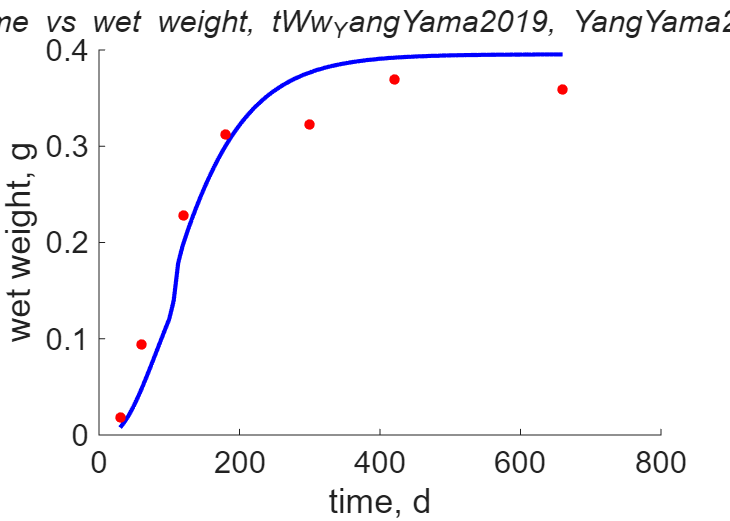
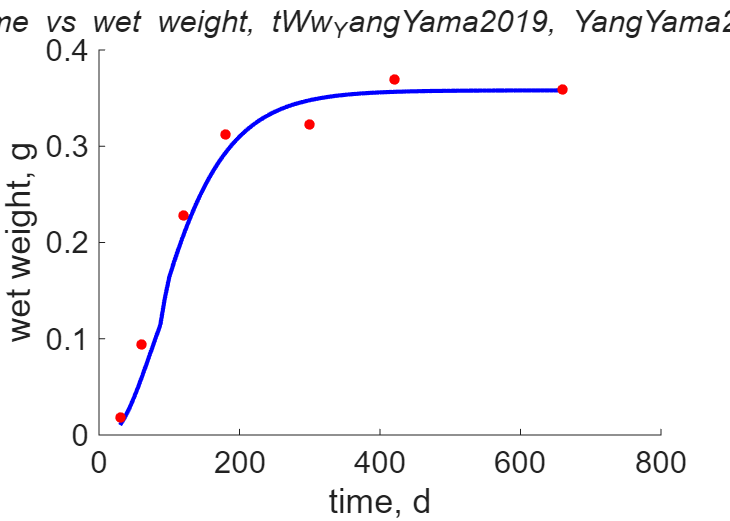
Small improvement to high data level estimation

Changed region(s): [[0.3014, 0.0921, 0.7836, 0.3071], [0.1507, 0.3992, 0.2712, 0.8292], [0.2712, 0.3071, 0.3014, 0.3992]]

diff --git a/data-full version less data only ODE/Danio_rerio_res.html b/data-full version less data only ODE/Danio_rerio_res.html
@@ -44,7 +44,7 @@
   </div>
 
   <div class="par">
-  <h4>COMPLETE = 4.6; MRE =    0.145; SMAE =    0.173; SMSE =    0.038 </h4>
+  <h4>COMPLETE = 4.6; MRE =    0.135; SMAE =    0.164; SMSE =    0.035 </h4>
   </div>
 
   <p class="clear"></p>
@@ -53,47 +53,47 @@
   <h2>Data & predictions</h2>
   <TABLE id="prd">
     <TR  class="head"><TH>data</TH> <TH>prd</TH> <TH>RE</TH>  <TH>symbol</TH> <TH>units</TH> <TH>description</TH> </TR>
-    <TR><TD>  5</TD> <TD>3.515</TD> <TD>0.297</TD> <TD>ab</TD> <TD>d</TD> <TD>age at birth</TD></TR>
-    <TR><TD> 22</TD> <TD>18.75</TD> <TD>0.1478</TD> <TD>aj</TD> <TD>d</TD> <TD>age at metam</TD></TR>
-    <TR><TD> 75</TD> <TD>87.82</TD> <TD>0.1709</TD> <TD>ap</TD> <TD>d</TD> <TD>age at puberty</TD></TR>
-    <TR><TD>1642</TD> <TD>1638</TD> <TD>0.002603</TD> <TD>am</TD> <TD>d</TD> <TD>life span</TD></TR>
-    <TR><TD>0.07</TD> <TD>0.08393</TD> <TD>0.199</TD> <TD>L0</TD> <TD>cm</TD> <TD>egg diameter</TD></TR>
-    <TR><TD>0.4</TD> <TD>0.2719</TD> <TD>0.3203</TD> <TD>Lb</TD> <TD>cm</TD> <TD>total length at birth</TD></TR>
-    <TR><TD>  1</TD> <TD>0.7888</TD> <TD>0.2112</TD> <TD>Lj</TD> <TD>cm</TD> <TD>total length at metam</TD></TR>
-    <TR><TD>3.25</TD> <TD>3.47</TD> <TD>0.06766</TD> <TD>Lp</TD> <TD>cm</TD> <TD>total length at puberty</TD></TR>
-    <TR><TD>  5</TD> <TD>5.796</TD> <TD>0.1593</TD> <TD>Li</TD> <TD>cm</TD> <TD>ultimate total length</TD></TR>
-    <TR><TD>0.0001</TD> <TD>6.192e-05</TD> <TD>0.3808</TD> <TD>Wd0</TD> <TD>g</TD> <TD>egg dry weight</TD></TR>
-    <TR><TD>  1</TD> <TD>1.255</TD> <TD>0.2554</TD> <TD>Wwi</TD> <TD>g</TD> <TD>ultimate wet weight</TD></TR>
-    <TR><TD>240</TD> <TD>199.4</TD> <TD>0.1694</TD> <TD>Ri</TD> <TD>#/d</TD> <TD>max reproduction</TD></TR>
-    <TR><TD>0.15</TD> <TD>0.146</TD> <TD>0.02635</TD> <TD>GSI</TD> <TD>g/g</TD> <TD>Gonado Somatic Index</TD></TR>
-    <TR><TD colspan="2">see figure</TD> <TD>0.08299</TD> <TD>tL_Schi2002</TD> <TD colspan="2">time since fertilization <font color="blue"><i>vs.</i></font> total length</TD>
-    <TR><TD colspan="2">see figure</TD> <TD>0.1214</TD> <TD>tL_EatoFarl1974</TD> <TD colspan="2">time since birth <font color="blue"><i>vs.</i></font> standard length</TD>
-    <TR><TD colspan="2">see figure</TD> <TD>0.1029</TD> <TD>tL_BagaPels2001</TD> <TD colspan="2">time since fertilizatixon <font color="blue"><i>vs.</i></font> total length</TD>
-    <TR><TD colspan="2">see figure</TD> <TD>0.1625</TD> <TD>tWw_BagaPels2001</TD> <TD colspan="2">time since fertilization <font color="blue"><i>vs.</i></font> wet weight</TD>
-    <TR><TD colspan="2">see figure</TD> <TD>0.197</TD> <TD>tWd_BagaPels2001</TD> <TD colspan="2">time since fertilization <font color="blue"><i>vs.</i></font> dry weight</TD>
-    <TR><TD colspan="2">see figure</TD> <TD>0.1492</TD> <TD>tL_BestAdat2010</TD> <TD colspan="2">time since fertilization <font color="blue"><i>vs.</i></font> total length</TD>
-    <TR><TD colspan="2">see figure</TD> <TD>0.06427</TD> <TD>tL_LawrEber2002_high</TD> <TD colspan="2">time since birth <font color="blue"><i>vs.</i></font> total length</TD>
-    <TR><TD colspan="2">see figure</TD> <TD>0.04543</TD> <TD>tL_LawrEber2002_low</TD> <TD colspan="2">time since birth <font color="blue"><i>vs.</i></font> total length</TD>
-    <TR><TD colspan="2">see figure</TD> <TD>0.0466</TD> <TD>tLf1_BeauGous2015</TD> <TD colspan="2">time since fertilization <font color="blue"><i>vs.</i></font> standard length</TD>
-    <TR><TD colspan="2">see figure</TD> <TD>0.05015</TD> <TD>tLf2_BeauGous2015</TD> <TD colspan="2">time since fertilization <font color="blue"><i>vs.</i></font> standard length</TD>
-    <TR><TD colspan="2">see figure</TD> <TD>0.06125</TD> <TD>tLf3_BeauGous2015</TD> <TD colspan="2">time since fertilization <font color="blue"><i>vs.</i></font> standard length</TD>
-    <TR><TD colspan="2">see figure</TD> <TD>0.08231</TD> <TD>tL1</TD> <TD colspan="2">time <font color="blue"><i>vs.</i></font> standard length <font color="blue"></TD>
-    <TR><TD>0.8632</TD> <TD>1.081</TD> <TD>0.2519</TD> <TD>Wwt</TD> <TD>g</TD> <TD>final wet weight</TD></TR>
-    <TR><TD colspan="2">see figure</TD> <TD>0.2842</TD> <TD>tN</TD> <TD colspan="2">time <font color="blue"><i>vs.</i></font> cumulated number of eggs</TD>
-    <TR><TD colspan="2">see figure</TD> <TD>0.1209</TD> <TD>tWw_ValKwa2022</TD> <TD colspan="2">time <font color="blue"><i>vs.</i></font> wet weight</TD>
-    <TR><TD colspan="2">see figure</TD> <TD>0.139</TD> <TD>tL_ValKwa2022</TD> <TD colspan="2">time <font color="blue"><i>vs.</i></font> total length</TD>
-    <TR><TD colspan="2">see figure</TD> <TD>0.1162</TD> <TD>tJX_ValKwa2022</TD> <TD colspan="2">time <font color="blue"><i>vs.</i></font> feed intake</TD>
-    <TR><TD colspan="2">see figure</TD> <TD>0.0529</TD> <TD>tL_YangYama2019</TD> <TD colspan="2">time <font color="blue"><i>vs.</i></font> total length</TD>
-    <TR><TD colspan="2">see figure</TD> <TD>0.0772</TD> <TD>tWw_YangYama2019</TD> <TD colspan="2">time <font color="blue"><i>vs.</i></font> wet weight</TD>
-    <TR><TD colspan="2">see figure</TD> <TD>0.1541</TD> <TD>tJO_YangYama2019</TD> <TD colspan="2">time <font color="blue"><i>vs.</i></font> oxygen consumption</TD>
-    <TR class="psd"><TD>0.02</TD> <TD>0.03347</TD> <TD>0.6734</TD> <TD>psd.v</TD> <TD>cm/d</TD> <TD>energy conductance</TD></TR>
-    <TR class="psd"><TD> 18</TD> <TD>137.7</TD> <TD>6.647</TD> <TD>psd.p_M</TD> <TD>J/d.cm^3</TD> <TD>vol-spec som maint</TD></TR>
-    <TR class="psd"><TD>0.002</TD> <TD>0.002</TD> <TD>  0</TD> <TD>psd.k_J</TD> <TD>1/d</TD> <TD>maturity maint rate coefficient</TD></TR>
-    <TR class="psd"><TD>0.3</TD> <TD>0.07738</TD> <TD>0.7421</TD> <TD>psd.k</TD> <TD>-</TD> <TD>maintenance ratio</TD></TR>
-    <TR class="psd"><TD>0.8</TD> <TD>0.3518</TD> <TD>0.5602</TD> <TD>psd.kap</TD> <TD>-</TD> <TD>allocation fraction to soma</TD></TR>
-    <TR class="psd"><TD>0.8</TD> <TD>0.7857</TD> <TD>0.01791</TD> <TD>psd.kap_G</TD> <TD>-</TD> <TD>growth efficiency</TD></TR>
+    <TR><TD>  5</TD> <TD>3.608</TD> <TD>0.2784</TD> <TD>ab</TD> <TD>d</TD> <TD>age at birth</TD></TR>
+    <TR><TD> 22</TD> <TD>19.43</TD> <TD>0.1167</TD> <TD>aj</TD> <TD>d</TD> <TD>age at metam</TD></TR>
+    <TR><TD> 75</TD> <TD>73.84</TD> <TD>0.01553</TD> <TD>ap</TD> <TD>d</TD> <TD>age at puberty</TD></TR>
+    <TR><TD>1642</TD> <TD>1641</TD> <TD>0.001068</TD> <TD>am</TD> <TD>d</TD> <TD>life span</TD></TR>
+    <TR><TD>0.07</TD> <TD>0.08513</TD> <TD>0.2161</TD> <TD>L0</TD> <TD>cm</TD> <TD>egg diameter</TD></TR>
+    <TR><TD>0.4</TD> <TD>0.2705</TD> <TD>0.3238</TD> <TD>Lb</TD> <TD>cm</TD> <TD>total length at birth</TD></TR>
+    <TR><TD>  1</TD> <TD>0.7972</TD> <TD>0.2028</TD> <TD>Lj</TD> <TD>cm</TD> <TD>total length at metam</TD></TR>
+    <TR><TD>3.25</TD> <TD>3.03</TD> <TD>0.06781</TD> <TD>Lp</TD> <TD>cm</TD> <TD>total length at puberty</TD></TR>
+    <TR><TD>  5</TD> <TD>5.69</TD> <TD>0.138</TD> <TD>Li</TD> <TD>cm</TD> <TD>ultimate total length</TD></TR>
+    <TR><TD>0.0001</TD> <TD>6.46e-05</TD> <TD>0.354</TD> <TD>Wd0</TD> <TD>g</TD> <TD>egg dry weight</TD></TR>
+    <TR><TD>  1</TD> <TD>1.254</TD> <TD>0.2541</TD> <TD>Wwi</TD> <TD>g</TD> <TD>ultimate wet weight</TD></TR>
+    <TR><TD>240</TD> <TD>201.9</TD> <TD>0.1586</TD> <TD>Ri</TD> <TD>#/d</TD> <TD>max reproduction</TD></TR>
+    <TR><TD>0.15</TD> <TD>0.151</TD> <TD>0.006699</TD> <TD>GSI</TD> <TD>g/g</TD> <TD>Gonado Somatic Index</TD></TR>
+    <TR><TD colspan="2">see figure</TD> <TD>0.08692</TD> <TD>tL_Schi2002</TD> <TD colspan="2">time since fertilization <font color="blue"><i>vs.</i></font> total length</TD>
+    <TR><TD colspan="2">see figure</TD> <TD>0.0839</TD> <TD>tL_EatoFarl1974</TD> <TD colspan="2">time since birth <font color="blue"><i>vs.</i></font> standard length</TD>
+    <TR><TD colspan="2">see figure</TD> <TD>0.101</TD> <TD>tL_BagaPels2001</TD> <TD colspan="2">time since fertilizatixon <font color="blue"><i>vs.</i></font> total length</TD>
+    <TR><TD colspan="2">see figure</TD> <TD>0.1578</TD> <TD>tWw_BagaPels2001</TD> <TD colspan="2">time since fertilization <font color="blue"><i>vs.</i></font> wet weight</TD>
+    <TR><TD colspan="2">see figure</TD> <TD>0.2065</TD> <TD>tWd_BagaPels2001</TD> <TD colspan="2">time since fertilization <font color="blue"><i>vs.</i></font> dry weight</TD>
+    <TR><TD colspan="2">see figure</TD> <TD>0.165</TD> <TD>tL_BestAdat2010</TD> <TD colspan="2">time since fertilization <font color="blue"><i>vs.</i></font> total length</TD>
+    <TR><TD colspan="2">see figure</TD> <TD>0.06289</TD> <TD>tL_LawrEber2002_high</TD> <TD colspan="2">time since birth <font color="blue"><i>vs.</i></font> total length</TD>
+    <TR><TD colspan="2">see figure</TD> <TD>0.04596</TD> <TD>tL_LawrEber2002_low</TD> <TD colspan="2">time since birth <font color="blue"><i>vs.</i></font> total length</TD>
+    <TR><TD colspan="2">see figure</TD> <TD>0.05048</TD> <TD>tLf1_BeauGous2015</TD> <TD colspan="2">time since fertilization <font color="blue"><i>vs.</i></font> standard length</TD>
+    <TR><TD colspan="2">see figure</TD> <TD>0.05544</TD> <TD>tLf2_BeauGous2015</TD> <TD colspan="2">time since fertilization <font color="blue"><i>vs.</i></font> standard length</TD>
+    <TR><TD colspan="2">see figure</TD> <TD>0.05982</TD> <TD>tLf3_BeauGous2015</TD> <TD colspan="2">time since fertilization <font color="blue"><i>vs.</i></font> standard length</TD>
+    <TR><TD colspan="2">see figure</TD> <TD>0.1147</TD> <TD>tL1</TD> <TD colspan="2">time <font color="blue"><i>vs.</i></font> standard length <font color="blue"></TD>
+    <TR><TD>0.8632</TD> <TD>1.059</TD> <TD>0.2264</TD> <TD>Wwt</TD> <TD>g</TD> <TD>final wet weight</TD></TR>
+    <TR><TD colspan="2">see figure</TD> <TD>0.3136</TD> <TD>tN</TD> <TD colspan="2">time <font color="blue"><i>vs.</i></font> cumulated number of eggs</TD>
+    <TR><TD colspan="2">see figure</TD> <TD>0.1145</TD> <TD>tWw_ValKwa2022</TD> <TD colspan="2">time <font color="blue"><i>vs.</i></font> wet weight</TD>
+    <TR><TD colspan="2">see figure</TD> <TD>0.1221</TD> <TD>tL_ValKwa2022</TD> <TD colspan="2">time <font color="blue"><i>vs.</i></font> total length</TD>
+    <TR><TD colspan="2">see figure</TD> <TD>0.09052</TD> <TD>tJX_ValKwa2022</TD> <TD colspan="2">time <font color="blue"><i>vs.</i></font> feed intake</TD>
+    <TR><TD colspan="2">see figure</TD> <TD>0.03743</TD> <TD>tL_YangYama2019</TD> <TD colspan="2">time <font color="blue"><i>vs.</i></font> total length</TD>
+    <TR><TD colspan="2">see figure</TD> <TD>0.07116</TD> <TD>tWw_YangYama2019</TD> <TD colspan="2">time <font color="blue"><i>vs.</i></font> wet weight</TD>
+    <TR><TD colspan="2">see figure</TD> <TD>0.1511</TD> <TD>tJO_YangYama2019</TD> <TD colspan="2">time <font color="blue"><i>vs.</i></font> oxygen consumption</TD>
+    <TR class="psd"><TD>0.02</TD> <TD>0.03255</TD> <TD>0.6274</TD> <TD>psd.v</TD> <TD>cm/d</TD> <TD>energy conductance</TD></TR>
+    <TR class="psd"><TD> 18</TD> <TD>140.3</TD> <TD>6.795</TD> <TD>psd.p_M</TD> <TD>J/d.cm^3</TD> <TD>vol-spec som maint</TD></TR>
+    <TR class="psd"><TD>0.002</TD> <TD>0.003041</TD> <TD>0.5205</TD> <TD>psd.k_J</TD> <TD>1/d</TD> <TD>maturity maint rate coefficient</TD></TR>
+    <TR class="psd"><TD>0.3</TD> <TD>0.1131</TD> <TD>0.623</TD> <TD>psd.k</TD> <TD>-</TD> <TD>maintenance ratio</TD></TR>
+    <TR class="psd"><TD>0.8</TD> <TD>0.3378</TD> <TD>0.5778</TD> <TD>psd.kap</TD> <TD>-</TD> <TD>allocation fraction to soma</TD></TR>
+    <TR class="psd"><TD>0.8</TD> <TD>0.8018</TD> <TD>0.002268</TD> <TD>psd.kap_G</TD> <TD>-</TD> <TD>growth efficiency</TD></TR>
     <TR class="psd"><TD>0.95</TD> <TD>0.95</TD> <TD>  0</TD> <TD>psd.kap_R</TD> <TD>-</TD> <TD>reproduction efficiency</TD></TR>
-    <TR class="psd"><TD>0.01</TD> <TD>0.002391</TD> <TD>0.7609</TD> <TD>psd.s_s</TD> <TD>-</TD> <TD>supply stress</TD></TR>
+    <TR class="psd"><TD>0.01</TD> <TD>0.002068</TD> <TD>0.7932</TD> <TD>psd.s_s</TD> <TD>-</TD> <TD>supply stress</TD></TR>
   </TABLE>
   </div>
 
@@ -103,35 +103,35 @@
     <TR class="head"><TH>symbol</TH> <TH>units</TH> <TH>value</TH>  <TH>free</TH> <TH>description</TH> </TR>
     <TR><TD>T_ref</TD> <TD>K</TD> <TD>293.1</TD> <TD>0</TD> <TD>Reference temperature</TD></TR>
     <TR><TD>T_A</TD> <TD>K</TD> <TD>8000</TD> <TD>0</TD> <TD>Arrhenius temp</TD></TR>
-    <TR><TD>z</TD> <TD>-</TD> <TD>0.3068</TD> <TD>1</TD> <TD>zoom factor</TD></TR>
+    <TR><TD>z</TD> <TD>-</TD> <TD>0.2991</TD> <TD>1</TD> <TD>zoom factor</TD></TR>
     <TR><TD>F_m</TD> <TD>l/d.cm^2</TD> <TD>6.5</TD> <TD>0</TD> <TD>{F_m}, max spec searching rate</TD></TR>
-    <TR><TD>kap_X</TD> <TD>-</TD> <TD>0.7922</TD> <TD>1</TD> <TD>digestion efficiency of food to reserve</TD></TR>
-    <TR><TD>kap_P</TD> <TD>-</TD> <TD>0.1356</TD> <TD>1</TD> <TD>faecation efficiency of food to faeces</TD></TR>
-    <TR><TD>v</TD> <TD>cm/d</TD> <TD>0.03347</TD> <TD>1</TD> <TD>energy conductance</TD></TR>
-    <TR><TD>kap</TD> <TD>-</TD> <TD>0.3518</TD> <TD>1</TD> <TD>allocation fraction to soma</TD></TR>
-    <TR><TD>p_M</TD> <TD>J/d.cm^3</TD> <TD>137.7</TD> <TD>1</TD> <TD>[p_M], vol-spec somatic maint</TD></TR>
+    <TR><TD>kap_X</TD> <TD>-</TD> <TD>0.7563</TD> <TD>1</TD> <TD>digestion efficiency of food to reserve</TD></TR>
+    <TR><TD>kap_P</TD> <TD>-</TD> <TD>0.1534</TD> <TD>1</TD> <TD>faecation efficiency of food to faeces</TD></TR>
+    <TR><TD>v</TD> <TD>cm/d</TD> <TD>0.03255</TD> <TD>1</TD> <TD>energy conductance</TD></TR>
+    <TR><TD>kap</TD> <TD>-</TD> <TD>0.3378</TD> <TD>1</TD> <TD>allocation fraction to soma</TD></TR>
+    <TR><TD>p_M</TD> <TD>J/d.cm^3</TD> <TD>140.3</TD> <TD>1</TD> <TD>[p_M], vol-spec somatic maint</TD></TR>
     <TR><TD>p_T</TD> <TD>J/d.cm^2</TD> <TD>  0</TD> <TD>0</TD> <TD>{p_T}, surf-spec somatic maint</TD></TR>
-    <TR><TD>k_J</TD> <TD>1/d</TD> <TD>0.002</TD> <TD>0</TD> <TD>maturity maint rate coefficient</TD></TR>
-    <TR><TD>E_G</TD> <TD>J/cm^3</TD> <TD>5325</TD> <TD>1</TD> <TD>[E_G], spec cost for structure</TD></TR>
-    <TR><TD>E_Hb</TD> <TD>J</TD> <TD>0.7511</TD> <TD>1</TD> <TD>maturity at birth</TD></TR>
-    <TR><TD>E_Hj</TD> <TD>J</TD> <TD>20.45</TD> <TD>1</TD> <TD>maturity at metam</TD></TR>
-    <TR><TD>E_Hp</TD> <TD>J</TD> <TD>2972</TD> <TD>1</TD> <TD>maturity at puberty</TD></TR>
+    <TR><TD>k_J</TD> <TD>1/d</TD> <TD>0.003041</TD> <TD>1</TD> <TD>maturity maint rate coefficient</TD></TR>
+    <TR><TD>E_G</TD> <TD>J/cm^3</TD> <TD>5218</TD> <TD>1</TD> <TD>[E_G], spec cost for structure</TD></TR>
+    <TR><TD>E_Hb</TD> <TD>J</TD> <TD>0.793</TD> <TD>1</TD> <TD>maturity at birth</TD></TR>
+    <TR><TD>E_Hj</TD> <TD>J</TD> <TD>22.65</TD> <TD>1</TD> <TD>maturity at metam</TD></TR>
+    <TR><TD>E_Hp</TD> <TD>J</TD> <TD>1894</TD> <TD>1</TD> <TD>maturity at puberty</TD></TR>
     <TR><TD>kap_R</TD> <TD>-</TD> <TD>0.95</TD> <TD>0</TD> <TD>reproduction efficiency</TD></TR>
-    <TR><TD>h_a</TD> <TD>1/d^2</TD> <TD>1.722e-09</TD> <TD>1</TD> <TD>Weibull aging acceleration</TD></TR>
+    <TR><TD>h_a</TD> <TD>1/d^2</TD> <TD>1.692e-09</TD> <TD>1</TD> <TD>Weibull aging acceleration</TD></TR>
     <TR><TD>s_G</TD> <TD>-</TD> <TD>0.0001069</TD> <TD>0</TD> <TD>Gompertz stress coefficient</TD></TR>
-    <TR><TD>del_Mt</TD> <TD>-</TD> <TD>0.1536</TD> <TD>1</TD> <TD>shape coefficient for adult</TD></TR>
+    <TR><TD>del_Mt</TD> <TD>-</TD> <TD>0.155</TD> <TD>1</TD> <TD>shape coefficient for adult</TD></TR>
     <TR><TD>V_0</TD> <TD>cm^3</TD> <TD>1e-10</TD> <TD>0</TD> <TD>initial structure of egg</TD></TR>
     <TR><TD>f</TD> <TD>-</TD> <TD>  1</TD> <TD>0</TD> <TD>scaled functional response</TD></TR>
-    <TR><TD>f_BagaPels2001</TD> <TD>-</TD> <TD>0.59</TD> <TD>1</TD> <TD>scaled functional response of BagaPels2001 data</TD></TR>
-    <TR><TD>f_BeauGous2015L</TD> <TD>-</TD> <TD>0.6642</TD> <TD>1</TD> <TD>sc. func. resp., BeauGous2015, length data</TD></TR>
-    <TR><TD>f_BeauGous2015R</TD> <TD>-</TD> <TD>1.39</TD> <TD>1</TD> <TD>sc. func. resp., BeauGous2015, reproduction data</TD></TR>
-    <TR><TD>f_BestAdat2010</TD> <TD>-</TD> <TD>1.037</TD> <TD>1</TD> <TD>scaled functional response of BestAdat2010 data</TD></TR>
-    <TR><TD>f_EatoFarl1974</TD> <TD>-</TD> <TD>0.9634</TD> <TD>1</TD> <TD>scaled functional response of EatoFarl1974b data</TD></TR>
-    <TR><TD>f_LawrEber2002_high</TD> <TD>-</TD> <TD>0.8271</TD> <TD>1</TD> <TD>scaled functional response of LawrEber2002_high data</TD></TR>
-    <TR><TD>f_LawrEber2002_low</TD> <TD>-</TD> <TD>0.558</TD> <TD>1</TD> <TD>scaled functional response of LawrEber2002_low data</TD></TR>
-    <TR><TD>f_Schi2002</TD> <TD>-</TD> <TD>0.5412</TD> <TD>1</TD> <TD>scaled functional response of Schi2002 data</TD></TR>
-    <TR><TD>f_ValKwa2022</TD> <TD>-</TD> <TD>0.8158</TD> <TD>1</TD> <TD>scaled functional response of ValKwa2022 data</TD></TR>
-    <TR><TD>f_YangYama2019</TD> <TD>-</TD> <TD>0.6736</TD> <TD>1</TD> <TD>scaled functional response of YangYama2019 data</TD></TR>
+    <TR><TD>f_BagaPels2001</TD> <TD>-</TD> <TD>0.5928</TD> <TD>1</TD> <TD>scaled functional response of BagaPels2001 data</TD></TR>
+    <TR><TD>f_BeauGous2015L</TD> <TD>-</TD> <TD>0.6522</TD> <TD>1</TD> <TD>sc. func. resp., BeauGous2015, length data</TD></TR>
+    <TR><TD>f_BeauGous2015R</TD> <TD>-</TD> <TD>1.384</TD> <TD>1</TD> <TD>sc. func. resp., BeauGous2015, reproduction data</TD></TR>
+    <TR><TD>f_BestAdat2010</TD> <TD>-</TD> <TD>1.055</TD> <TD>1</TD> <TD>scaled functional response of BestAdat2010 data</TD></TR>
+    <TR><TD>f_EatoFarl1974</TD> <TD>-</TD> <TD>0.9478</TD> <TD>1</TD> <TD>scaled functional response of EatoFarl1974b data</TD></TR>
+    <TR><TD>f_LawrEber2002_high</TD> <TD>-</TD> <TD>0.875</TD> <TD>1</TD> <TD>scaled functional response of LawrEber2002_high data</TD></TR>
+    <TR><TD>f_LawrEber2002_low</TD> <TD>-</TD> <TD>0.5604</TD> <TD>1</TD> <TD>scaled functional response of LawrEber2002_low data</TD></TR>
+    <TR><TD>f_Schi2002</TD> <TD>-</TD> <TD>0.54</TD> <TD>1</TD> <TD>scaled functional response of Schi2002 data</TD></TR>
+    <TR><TD>f_ValKwa2022</TD> <TD>-</TD> <TD>0.8139</TD> <TD>1</TD> <TD>scaled functional response of ValKwa2022 data</TD></TR>
+    <TR><TD>f_YangYama2019</TD> <TD>-</TD> <TD>0.676</TD> <TD>1</TD> <TD>scaled functional response of YangYama2019 data</TD></TR>
   </TABLE>
   </div>
 

diff --git a/data-full version less data only ODE/Danio_rerio_res_great.html b/data-full version less data only ODE/Danio_rerio_res_great.html
@@ -44,7 +44,7 @@
   </div>
 
   <div class="par">
-  <h4>COMPLETE = 4.6; MRE =    0.145; SMAE =    0.173; SMSE =    0.038 </h4>
+  <h4>COMPLETE = 4.6; MRE =    0.135; SMAE =    0.164; SMSE =    0.035 </h4>
   </div>
 
   <p class="clear"></p>
@@ -53,47 +53,47 @@
   <h2>Data & predictions</h2>
   <TABLE id="prd">
     <TR  class="head"><TH>data</TH> <TH>prd</TH> <TH>RE</TH>  <TH>symbol</TH> <TH>units</TH> <TH>description</TH> </TR>
-    <TR><TD>  5</TD> <TD>3.515</TD> <TD>0.297</TD> <TD>ab</TD> <TD>d</TD> <TD>age at birth</TD></TR>
-    <TR><TD> 22</TD> <TD>18.75</TD> <TD>0.1478</TD> <TD>aj</TD> <TD>d</TD> <TD>age at metam</TD></TR>
-    <TR><TD> 75</TD> <TD>87.82</TD> <TD>0.1709</TD> <TD>ap</TD> <TD>d</TD> <TD>age at puberty</TD></TR>
-    <TR><TD>1642</TD> <TD>1638</TD> <TD>0.002603</TD> <TD>am</TD> <TD>d</TD> <TD>life span</TD></TR>
-    <TR><TD>0.07</TD> <TD>0.08393</TD> <TD>0.199</TD> <TD>L0</TD> <TD>cm</TD> <TD>egg diameter</TD></TR>
-    <TR><TD>0.4</TD> <TD>0.2719</TD> <TD>0.3203</TD> <TD>Lb</TD> <TD>cm</TD> <TD>total length at birth</TD></TR>
-    <TR><TD>  1</TD> <TD>0.7888</TD> <TD>0.2112</TD> <TD>Lj</TD> <TD>cm</TD> <TD>total length at metam</TD></TR>
-    <TR><TD>3.25</TD> <TD>3.47</TD> <TD>0.06766</TD> <TD>Lp</TD> <TD>cm</TD> <TD>total length at puberty</TD></TR>
-    <TR><TD>  5</TD> <TD>5.796</TD> <TD>0.1593</TD> <TD>Li</TD> <TD>cm</TD> <TD>ultimate total length</TD></TR>
-    <TR><TD>0.0001</TD> <TD>6.192e-05</TD> <TD>0.3808</TD> <TD>Wd0</TD> <TD>g</TD> <TD>egg dry weight</TD></TR>
-    <TR><TD>  1</TD> <TD>1.255</TD> <TD>0.2554</TD> <TD>Wwi</TD> <TD>g</TD> <TD>ultimate wet weight</TD></TR>
-    <TR><TD>240</TD> <TD>199.4</TD> <TD>0.1694</TD> <TD>Ri</TD> <TD>#/d</TD> <TD>max reproduction</TD></TR>
-    <TR><TD>0.15</TD> <TD>0.146</TD> <TD>0.02635</TD> <TD>GSI</TD> <TD>g/g</TD> <TD>Gonado Somatic Index</TD></TR>
-    <TR><TD colspan="2">see figure</TD> <TD>0.08299</TD> <TD>tL_Schi2002</TD> <TD colspan="2">time since fertilization <font color="blue"><i>vs.</i></font> total length</TD>
-    <TR><TD colspan="2">see figure</TD> <TD>0.1214</TD> <TD>tL_EatoFarl1974</TD> <TD colspan="2">time since birth <font color="blue"><i>vs.</i></font> standard length</TD>
-    <TR><TD colspan="2">see figure</TD> <TD>0.1029</TD> <TD>tL_BagaPels2001</TD> <TD colspan="2">time since fertilizatixon <font color="blue"><i>vs.</i></font> total length</TD>
-    <TR><TD colspan="2">see figure</TD> <TD>0.1625</TD> <TD>tWw_BagaPels2001</TD> <TD colspan="2">time since fertilization <font color="blue"><i>vs.</i></font> wet weight</TD>
-    <TR><TD colspan="2">see figure</TD> <TD>0.197</TD> <TD>tWd_BagaPels2001</TD> <TD colspan="2">time since fertilization <font color="blue"><i>vs.</i></font> dry weight</TD>
-    <TR><TD colspan="2">see figure</TD> <TD>0.1492</TD> <TD>tL_BestAdat2010</TD> <TD colspan="2">time since fertilization <font color="blue"><i>vs.</i></font> total length</TD>
-    <TR><TD colspan="2">see figure</TD> <TD>0.06427</TD> <TD>tL_LawrEber2002_high</TD> <TD colspan="2">time since birth <font color="blue"><i>vs.</i></font> total length</TD>
-    <TR><TD colspan="2">see figure</TD> <TD>0.04543</TD> <TD>tL_LawrEber2002_low</TD> <TD colspan="2">time since birth <font color="blue"><i>vs.</i></font> total length</TD>
-    <TR><TD colspan="2">see figure</TD> <TD>0.0466</TD> <TD>tLf1_BeauGous2015</TD> <TD colspan="2">time since fertilization <font color="blue"><i>vs.</i></font> standard length</TD>
-    <TR><TD colspan="2">see figure</TD> <TD>0.05015</TD> <TD>tLf2_BeauGous2015</TD> <TD colspan="2">time since fertilization <font color="blue"><i>vs.</i></font> standard length</TD>
-    <TR><TD colspan="2">see figure</TD> <TD>0.06125</TD> <TD>tLf3_BeauGous2015</TD> <TD colspan="2">time since fertilization <font color="blue"><i>vs.</i></font> standard length</TD>
-    <TR><TD colspan="2">see figure</TD> <TD>0.08231</TD> <TD>tL1</TD> <TD colspan="2">time <font color="blue"><i>vs.</i></font> standard length <font color="blue"></TD>
-    <TR><TD>0.8632</TD> <TD>1.081</TD> <TD>0.2519</TD> <TD>Wwt</TD> <TD>g</TD> <TD>final wet weight</TD></TR>
-    <TR><TD colspan="2">see figure</TD> <TD>0.2842</TD> <TD>tN</TD> <TD colspan="2">time <font color="blue"><i>vs.</i></font> cumulated number of eggs</TD>
-    <TR><TD colspan="2">see figure</TD> <TD>0.1209</TD> <TD>tWw_ValKwa2022</TD> <TD colspan="2">time <font color="blue"><i>vs.</i></font> wet weight</TD>
-    <TR><TD colspan="2">see figure</TD> <TD>0.139</TD> <TD>tL_ValKwa2022</TD> <TD colspan="2">time <font color="blue"><i>vs.</i></font> total length</TD>
-    <TR><TD colspan="2">see figure</TD> <TD>0.1162</TD> <TD>tJX_ValKwa2022</TD> <TD colspan="2">time <font color="blue"><i>vs.</i></font> feed intake</TD>
-    <TR><TD colspan="2">see figure</TD> <TD>0.0529</TD> <TD>tL_YangYama2019</TD> <TD colspan="2">time <font color="blue"><i>vs.</i></font> total length</TD>
-    <TR><TD colspan="2">see figure</TD> <TD>0.0772</TD> <TD>tWw_YangYama2019</TD> <TD colspan="2">time <font color="blue"><i>vs.</i></font> wet weight</TD>
-    <TR><TD colspan="2">see figure</TD> <TD>0.1541</TD> <TD>tJO_YangYama2019</TD> <TD colspan="2">time <font color="blue"><i>vs.</i></font> oxygen consumption</TD>
-    <TR class="psd"><TD>0.02</TD> <TD>0.03347</TD> <TD>0.6734</TD> <TD>psd.v</TD> <TD>cm/d</TD> <TD>energy conductance</TD></TR>
-    <TR class="psd"><TD> 18</TD> <TD>137.7</TD> <TD>6.647</TD> <TD>psd.p_M</TD> <TD>J/d.cm^3</TD> <TD>vol-spec som maint</TD></TR>
-    <TR class="psd"><TD>0.002</TD> <TD>0.002</TD> <TD>  0</TD> <TD>psd.k_J</TD> <TD>1/d</TD> <TD>maturity maint rate coefficient</TD></TR>
-    <TR class="psd"><TD>0.3</TD> <TD>0.07738</TD> <TD>0.7421</TD> <TD>psd.k</TD> <TD>-</TD> <TD>maintenance ratio</TD></TR>
-    <TR class="psd"><TD>0.8</TD> <TD>0.3518</TD> <TD>0.5602</TD> <TD>psd.kap</TD> <TD>-</TD> <TD>allocation fraction to soma</TD></TR>
-    <TR class="psd"><TD>0.8</TD> <TD>0.7857</TD> <TD>0.01791</TD> <TD>psd.kap_G</TD> <TD>-</TD> <TD>growth efficiency</TD></TR>
+    <TR><TD>  5</TD> <TD>3.608</TD> <TD>0.2784</TD> <TD>ab</TD> <TD>d</TD> <TD>age at birth</TD></TR>
+    <TR><TD> 22</TD> <TD>19.43</TD> <TD>0.1167</TD> <TD>aj</TD> <TD>d</TD> <TD>age at metam</TD></TR>
+    <TR><TD> 75</TD> <TD>73.84</TD> <TD>0.01553</TD> <TD>ap</TD> <TD>d</TD> <TD>age at puberty</TD></TR>
+    <TR><TD>1642</TD> <TD>1641</TD> <TD>0.001068</TD> <TD>am</TD> <TD>d</TD> <TD>life span</TD></TR>
+    <TR><TD>0.07</TD> <TD>0.08513</TD> <TD>0.2161</TD> <TD>L0</TD> <TD>cm</TD> <TD>egg diameter</TD></TR>
+    <TR><TD>0.4</TD> <TD>0.2705</TD> <TD>0.3238</TD> <TD>Lb</TD> <TD>cm</TD> <TD>total length at birth</TD></TR>
+    <TR><TD>  1</TD> <TD>0.7972</TD> <TD>0.2028</TD> <TD>Lj</TD> <TD>cm</TD> <TD>total length at metam</TD></TR>
+    <TR><TD>3.25</TD> <TD>3.03</TD> <TD>0.06781</TD> <TD>Lp</TD> <TD>cm</TD> <TD>total length at puberty</TD></TR>
+    <TR><TD>  5</TD> <TD>5.69</TD> <TD>0.138</TD> <TD>Li</TD> <TD>cm</TD> <TD>ultimate total length</TD></TR>
+    <TR><TD>0.0001</TD> <TD>6.46e-05</TD> <TD>0.354</TD> <TD>Wd0</TD> <TD>g</TD> <TD>egg dry weight</TD></TR>
+    <TR><TD>  1</TD> <TD>1.254</TD> <TD>0.2541</TD> <TD>Wwi</TD> <TD>g</TD> <TD>ultimate wet weight</TD></TR>
+    <TR><TD>240</TD> <TD>201.9</TD> <TD>0.1586</TD> <TD>Ri</TD> <TD>#/d</TD> <TD>max reproduction</TD></TR>
+    <TR><TD>0.15</TD> <TD>0.151</TD> <TD>0.006699</TD> <TD>GSI</TD> <TD>g/g</TD> <TD>Gonado Somatic Index</TD></TR>
+    <TR><TD colspan="2">see figure</TD> <TD>0.08692</TD> <TD>tL_Schi2002</TD> <TD colspan="2">time since fertilization <font color="blue"><i>vs.</i></font> total length</TD>
+    <TR><TD colspan="2">see figure</TD> <TD>0.0839</TD> <TD>tL_EatoFarl1974</TD> <TD colspan="2">time since birth <font color="blue"><i>vs.</i></font> standard length</TD>
+    <TR><TD colspan="2">see figure</TD> <TD>0.101</TD> <TD>tL_BagaPels2001</TD> <TD colspan="2">time since fertilizatixon <font color="blue"><i>vs.</i></font> total length</TD>
+    <TR><TD colspan="2">see figure</TD> <TD>0.1578</TD> <TD>tWw_BagaPels2001</TD> <TD colspan="2">time since fertilization <font color="blue"><i>vs.</i></font> wet weight</TD>
+    <TR><TD colspan="2">see figure</TD> <TD>0.2065</TD> <TD>tWd_BagaPels2001</TD> <TD colspan="2">time since fertilization <font color="blue"><i>vs.</i></font> dry weight</TD>
+    <TR><TD colspan="2">see figure</TD> <TD>0.165</TD> <TD>tL_BestAdat2010</TD> <TD colspan="2">time since fertilization <font color="blue"><i>vs.</i></font> total length</TD>
+    <TR><TD colspan="2">see figure</TD> <TD>0.06289</TD> <TD>tL_LawrEber2002_high</TD> <TD colspan="2">time since birth <font color="blue"><i>vs.</i></font> total length</TD>
+    <TR><TD colspan="2">see figure</TD> <TD>0.04596</TD> <TD>tL_LawrEber2002_low</TD> <TD colspan="2">time since birth <font color="blue"><i>vs.</i></font> total length</TD>
+    <TR><TD colspan="2">see figure</TD> <TD>0.05048</TD> <TD>tLf1_BeauGous2015</TD> <TD colspan="2">time since fertilization <font color="blue"><i>vs.</i></font> standard length</TD>
+    <TR><TD colspan="2">see figure</TD> <TD>0.05544</TD> <TD>tLf2_BeauGous2015</TD> <TD colspan="2">time since fertilization <font color="blue"><i>vs.</i></font> standard length</TD>
+    <TR><TD colspan="2">see figure</TD> <TD>0.05982</TD> <TD>tLf3_BeauGous2015</TD> <TD colspan="2">time since fertilization <font color="blue"><i>vs.</i></font> standard length</TD>
+    <TR><TD colspan="2">see figure</TD> <TD>0.1147</TD> <TD>tL1</TD> <TD colspan="2">time <font color="blue"><i>vs.</i></font> standard length <font color="blue"></TD>
+    <TR><TD>0.8632</TD> <TD>1.059</TD> <TD>0.2264</TD> <TD>Wwt</TD> <TD>g</TD> <TD>final wet weight</TD></TR>
+    <TR><TD colspan="2">see figure</TD> <TD>0.3136</TD> <TD>tN</TD> <TD colspan="2">time <font color="blue"><i>vs.</i></font> cumulated number of eggs</TD>
+    <TR><TD colspan="2">see figure</TD> <TD>0.1145</TD> <TD>tWw_ValKwa2022</TD> <TD colspan="2">time <font color="blue"><i>vs.</i></font> wet weight</TD>
+    <TR><TD colspan="2">see figure</TD> <TD>0.1221</TD> <TD>tL_ValKwa2022</TD> <TD colspan="2">time <font color="blue"><i>vs.</i></font> total length</TD>
+    <TR><TD colspan="2">see figure</TD> <TD>0.09052</TD> <TD>tJX_ValKwa2022</TD> <TD colspan="2">time <font color="blue"><i>vs.</i></font> feed intake</TD>
+    <TR><TD colspan="2">see figure</TD> <TD>0.03743</TD> <TD>tL_YangYama2019</TD> <TD colspan="2">time <font color="blue"><i>vs.</i></font> total length</TD>
+    <TR><TD colspan="2">see figure</TD> <TD>0.07116</TD> <TD>tWw_YangYama2019</TD> <TD colspan="2">time <font color="blue"><i>vs.</i></font> wet weight</TD>
+    <TR><TD colspan="2">see figure</TD> <TD>0.1511</TD> <TD>tJO_YangYama2019</TD> <TD colspan="2">time <font color="blue"><i>vs.</i></font> oxygen consumption</TD>
+    <TR class="psd"><TD>0.02</TD> <TD>0.03255</TD> <TD>0.6274</TD> <TD>psd.v</TD> <TD>cm/d</TD> <TD>energy conductance</TD></TR>
+    <TR class="psd"><TD> 18</TD> <TD>140.3</TD> <TD>6.795</TD> <TD>psd.p_M</TD> <TD>J/d.cm^3</TD> <TD>vol-spec som maint</TD></TR>
+    <TR class="psd"><TD>0.002</TD> <TD>0.003041</TD> <TD>0.5205</TD> <TD>psd.k_J</TD> <TD>1/d</TD> <TD>maturity maint rate coefficient</TD></TR>
+    <TR class="psd"><TD>0.3</TD> <TD>0.1131</TD> <TD>0.623</TD> <TD>psd.k</TD> <TD>-</TD> <TD>maintenance ratio</TD></TR>
+    <TR class="psd"><TD>0.8</TD> <TD>0.3378</TD> <TD>0.5778</TD> <TD>psd.kap</TD> <TD>-</TD> <TD>allocation fraction to soma</TD></TR>
+    <TR class="psd"><TD>0.8</TD> <TD>0.8018</TD> <TD>0.002268</TD> <TD>psd.kap_G</TD> <TD>-</TD> <TD>growth efficiency</TD></TR>
     <TR class="psd"><TD>0.95</TD> <TD>0.95</TD> <TD>  0</TD> <TD>psd.kap_R</TD> <TD>-</TD> <TD>reproduction efficiency</TD></TR>
-    <TR class="psd"><TD>0.01</TD> <TD>0.002391</TD> <TD>0.7609</TD> <TD>psd.s_s</TD> <TD>-</TD> <TD>supply stress</TD></TR>
+    <TR class="psd"><TD>0.01</TD> <TD>0.002068</TD> <TD>0.7932</TD> <TD>psd.s_s</TD> <TD>-</TD> <TD>supply stress</TD></TR>
   </TABLE>
   </div>
 
@@ -103,35 +103,35 @@
     <TR class="head"><TH>symbol</TH> <TH>units</TH> <TH>value</TH>  <TH>free</TH> <TH>description</TH> </TR>
     <TR><TD>T_ref</TD> <TD>K</TD> <TD>293.1</TD> <TD>0</TD> <TD>Reference temperature</TD></TR>
     <TR><TD>T_A</TD> <TD>K</TD> <TD>8000</TD> <TD>0</TD> <TD>Arrhenius temp</TD></TR>
-    <TR><TD>z</TD> <TD>-</TD> <TD>0.3068</TD> <TD>1</TD> <TD>zoom factor</TD></TR>
+    <TR><TD>z</TD> <TD>-</TD> <TD>0.2991</TD> <TD>1</TD> <TD>zoom factor</TD></TR>
     <TR><TD>F_m</TD> <TD>l/d.cm^2</TD> <TD>6.5</TD> <TD>0</TD> <TD>{F_m}, max spec searching rate</TD></TR>
-    <TR><TD>kap_X</TD> <TD>-</TD> <TD>0.7922</TD> <TD>1</TD> <TD>digestion efficiency of food to reserve</TD></TR>
-    <TR><TD>kap_P</TD> <TD>-</TD> <TD>0.1356</TD> <TD>1</TD> <TD>faecation efficiency of food to faeces</TD></TR>
-    <TR><TD>v</TD> <TD>cm/d</TD> <TD>0.03347</TD> <TD>1</TD> <TD>energy conductance</TD></TR>
-    <TR><TD>kap</TD> <TD>-</TD> <TD>0.3518</TD> <TD>1</TD> <TD>allocation fraction to soma</TD></TR>
-    <TR><TD>p_M</TD> <TD>J/d.cm^3</TD> <TD>137.7</TD> <TD>1</TD> <TD>[p_M], vol-spec somatic maint</TD></TR>
+    <TR><TD>kap_X</TD> <TD>-</TD> <TD>0.7563</TD> <TD>1</TD> <TD>digestion efficiency of food to reserve</TD></TR>
+    <TR><TD>kap_P</TD> <TD>-</TD> <TD>0.1534</TD> <TD>1</TD> <TD>faecation efficiency of food to faeces</TD></TR>
+    <TR><TD>v</TD> <TD>cm/d</TD> <TD>0.03255</TD> <TD>1</TD> <TD>energy conductance</TD></TR>
+    <TR><TD>kap</TD> <TD>-</TD> <TD>0.3378</TD> <TD>1</TD> <TD>allocation fraction to soma</TD></TR>
+    <TR><TD>p_M</TD> <TD>J/d.cm^3</TD> <TD>140.3</TD> <TD>1</TD> <TD>[p_M], vol-spec somatic maint</TD></TR>
     <TR><TD>p_T</TD> <TD>J/d.cm^2</TD> <TD>  0</TD> <TD>0</TD> <TD>{p_T}, surf-spec somatic maint</TD></TR>
-    <TR><TD>k_J</TD> <TD>1/d</TD> <TD>0.002</TD> <TD>0</TD> <TD>maturity maint rate coefficient</TD></TR>
-    <TR><TD>E_G</TD> <TD>J/cm^3</TD> <TD>5325</TD> <TD>1</TD> <TD>[E_G], spec cost for structure</TD></TR>
-    <TR><TD>E_Hb</TD> <TD>J</TD> <TD>0.7511</TD> <TD>1</TD> <TD>maturity at birth</TD></TR>
-    <TR><TD>E_Hj</TD> <TD>J</TD> <TD>20.45</TD> <TD>1</TD> <TD>maturity at metam</TD></TR>
-    <TR><TD>E_Hp</TD> <TD>J</TD> <TD>2972</TD> <TD>1</TD> <TD>maturity at puberty</TD></TR>
+    <TR><TD>k_J</TD> <TD>1/d</TD> <TD>0.003041</TD> <TD>1</TD> <TD>maturity maint rate coefficient</TD></TR>
+    <TR><TD>E_G</TD> <TD>J/cm^3</TD> <TD>5218</TD> <TD>1</TD> <TD>[E_G], spec cost for structure</TD></TR>
+    <TR><TD>E_Hb</TD> <TD>J</TD> <TD>0.793</TD> <TD>1</TD> <TD>maturity at birth</TD></TR>
+    <TR><TD>E_Hj</TD> <TD>J</TD> <TD>22.65</TD> <TD>1</TD> <TD>maturity at metam</TD></TR>
+    <TR><TD>E_Hp</TD> <TD>J</TD> <TD>1894</TD> <TD>1</TD> <TD>maturity at puberty</TD></TR>
     <TR><TD>kap_R</TD> <TD>-</TD> <TD>0.95</TD> <TD>0</TD> <TD>reproduction efficiency</TD></TR>
-    <TR><TD>h_a</TD> <TD>1/d^2</TD> <TD>1.722e-09</TD> <TD>1</TD> <TD>Weibull aging acceleration</TD></TR>
+    <TR><TD>h_a</TD> <TD>1/d^2</TD> <TD>1.692e-09</TD> <TD>1</TD> <TD>Weibull aging acceleration</TD></TR>
     <TR><TD>s_G</TD> <TD>-</TD> <TD>0.0001069</TD> <TD>0</TD> <TD>Gompertz stress coefficient</TD></TR>
-    <TR><TD>del_Mt</TD> <TD>-</TD> <TD>0.1536</TD> <TD>1</TD> <TD>shape coefficient for adult</TD></TR>
+    <TR><TD>del_Mt</TD> <TD>-</TD> <TD>0.155</TD> <TD>1</TD> <TD>shape coefficient for adult</TD></TR>
     <TR><TD>V_0</TD> <TD>cm^3</TD> <TD>1e-10</TD> <TD>0</TD> <TD>initial structure of egg</TD></TR>
     <TR><TD>f</TD> <TD>-</TD> <TD>  1</TD> <TD>0</TD> <TD>scaled functional response</TD></TR>
-    <TR><TD>f_BagaPels2001</TD> <TD>-</TD> <TD>0.59</TD> <TD>1</TD> <TD>scaled functional response of BagaPels2001 data</TD></TR>
-    <TR><TD>f_BeauGous2015L</TD> <TD>-</TD> <TD>0.6642</TD> <TD>1</TD> <TD>sc. func. resp., BeauGous2015, length data</TD></TR>
-    <TR><TD>f_BeauGous2015R</TD> <TD>-</TD> <TD>1.39</TD> <TD>1</TD> <TD>sc. func. resp., BeauGous2015, reproduction data</TD></TR>
-    <TR><TD>f_BestAdat2010</TD> <TD>-</TD> <TD>1.037</TD> <TD>1</TD> <TD>scaled functional response of BestAdat2010 data</TD></TR>
-    <TR><TD>f_EatoFarl1974</TD> <TD>-</TD> <TD>0.9634</TD> <TD>1</TD> <TD>scaled functional response of EatoFarl1974b data</TD></TR>
-    <TR><TD>f_LawrEber2002_high</TD> <TD>-</TD> <TD>0.8271</TD> <TD>1</TD> <TD>scaled functional response of LawrEber2002_high data</TD></TR>
-    <TR><TD>f_LawrEber2002_low</TD> <TD>-</TD> <TD>0.558</TD> <TD>1</TD> <TD>scaled functional response of LawrEber2002_low data</TD></TR>
-    <TR><TD>f_Schi2002</TD> <TD>-</TD> <TD>0.5412</TD> <TD>1</TD> <TD>scaled functional response of Schi2002 data</TD></TR>
-    <TR><TD>f_ValKwa2022</TD> <TD>-</TD> <TD>0.8158</TD> <TD>1</TD> <TD>scaled functional response of ValKwa2022 data</TD></TR>
-    <TR><TD>f_YangYama2019</TD> <TD>-</TD> <TD>0.6736</TD> <TD>1</TD> <TD>scaled functional response of YangYama2019 data</TD></TR>
+    <TR><TD>f_BagaPels2001</TD> <TD>-</TD> <TD>0.5928</TD> <TD>1</TD> <TD>scaled functional response of BagaPels2001 data</TD></TR>
+    <TR><TD>f_BeauGous2015L</TD> <TD>-</TD> <TD>0.6522</TD> <TD>1</TD> <TD>sc. func. resp., BeauGous2015, length data</TD></TR>
+    <TR><TD>f_BeauGous2015R</TD> <TD>-</TD> <TD>1.384</TD> <TD>1</TD> <TD>sc. func. resp., BeauGous2015, reproduction data</TD></TR>
+    <TR><TD>f_BestAdat2010</TD> <TD>-</TD> <TD>1.055</TD> <TD>1</TD> <TD>scaled functional response of BestAdat2010 data</TD></TR>
+    <TR><TD>f_EatoFarl1974</TD> <TD>-</TD> <TD>0.9478</TD> <TD>1</TD> <TD>scaled functional response of EatoFarl1974b data</TD></TR>
+    <TR><TD>f_LawrEber2002_high</TD> <TD>-</TD> <TD>0.875</TD> <TD>1</TD> <TD>scaled functional response of LawrEber2002_high data</TD></TR>
+    <TR><TD>f_LawrEber2002_low</TD> <TD>-</TD> <TD>0.5604</TD> <TD>1</TD> <TD>scaled functional response of LawrEber2002_low data</TD></TR>
+    <TR><TD>f_Schi2002</TD> <TD>-</TD> <TD>0.54</TD> <TD>1</TD> <TD>scaled functional response of Schi2002 data</TD></TR>
+    <TR><TD>f_ValKwa2022</TD> <TD>-</TD> <TD>0.8139</TD> <TD>1</TD> <TD>scaled functional response of ValKwa2022 data</TD></TR>
+    <TR><TD>f_YangYama2019</TD> <TD>-</TD> <TD>0.676</TD> <TD>1</TD> <TD>scaled functional response of YangYama2019 data</TD></TR>
   </TABLE>
   </div>
 
